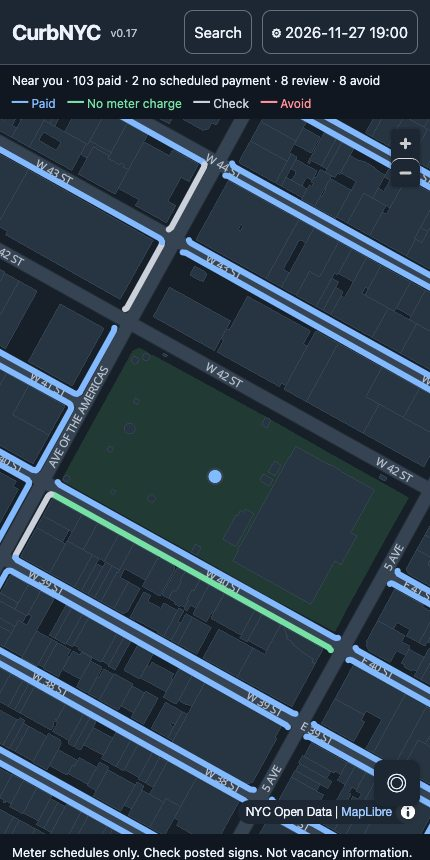
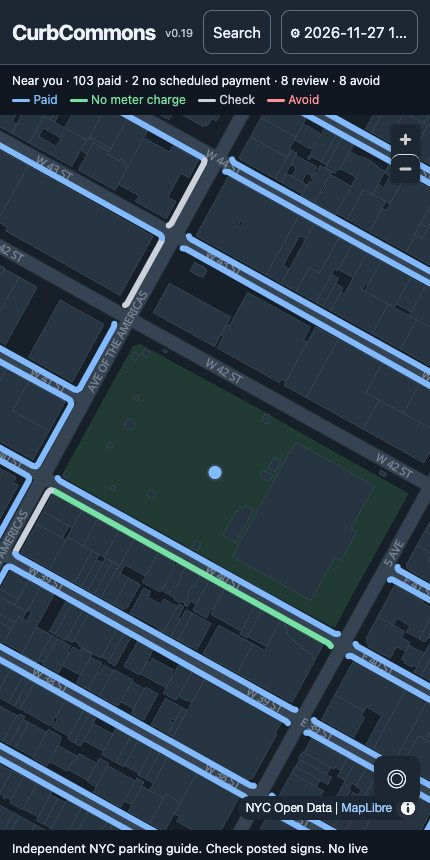
Use CurbCommons as the public app name

diff --git a/index.html b/index.html
@@ -1,7 +1,7 @@
 <!doctype html>
-<html lang="en"><head><meta charset="utf-8"><meta name="viewport" content="width=device-width,initial-scale=1"><meta name="theme-color" content="#142d3b"><link rel="manifest" href="manifest.json"><link rel="stylesheet" href="https://unpkg.com/maplibre-gl@4.7.1/dist/maplibre-gl.css"><title>CurbNYC — Meters</title>
+<html lang="en"><head><meta charset="utf-8"><meta name="viewport" content="width=device-width,initial-scale=1"><meta name="theme-color" content="#142d3b"><link rel="manifest" href="manifest.json"><link rel="stylesheet" href="https://unpkg.com/maplibre-gl@4.7.1/dist/maplibre-gl.css"><title>CurbCommons — Meters</title>
 <style>*{box-sizing:border-box}body{margin:0;font:15px system-ui;color:#142d3b;background:#f5f5f2}header{display:flex;align-items:center;gap:10px;padding:10px 12px;background:white;border-bottom:1px solid #ddd}header strong{font-size:21px;letter-spacing:-.5px}header small{font-size:11px;color:#75818a}button,select,input{font:inherit;border:1px solid #c4cbd0;padding:9px;border-radius:9px;background:#fff;color:inherit;cursor:pointer}header #search-toggle{margin-left:auto}header button{min-height:44px}header #settings{min-width:0;max-width:45vw;overflow:hidden;white-space:nowrap;text-overflow:ellipsis}#search-form label{margin:0 0 8px}#destination{width:100%;min-height:44px}#search-form>button{margin-top:8px;min-height:44px}#search-results{list-style:none;padding:0;margin:8px 0}#search-results button{text-align:left;width:100%;min-height:44px;margin-bottom:6px}section{padding:8px 12px}#map{height:calc(100dvh - 145px);min-height:300px;background:#eeeee8}#map-wrap{position:relative}.locate{position:absolute;z-index:2;right:10px;bottom:28px;border:0;box-shadow:0 1px 6px #0003;font-size:21px;width:46px;height:46px}#status{font-size:12px;margin:0 0 4px}#map-status{font-size:12px;color:#65717a}#results{padding:0 12px}article{padding:12px;margin:8px 0;background:white;border-radius:8px}p{white-space:pre-wrap;margin:6px 0;font-size:13px}a{color:#125d9b}.legend{display:flex;gap:12px;font-size:12px;flex-wrap:wrap}.legend b{font-size:16px}.maplibregl-popup-content{white-space:normal;font:14px system-ui;max-height:55vh;overflow:auto;padding:16px}.curb-state{font-size:16px;font-weight:700;margin:8px 0 4px}.price{font-weight:700;font-size:21px;margin:4px 0}.caveat{display:block;color:#65717a;margin-top:8px}details{margin-top:8px}summary{cursor:pointer;font-size:13px}dialog{border:0;border-radius:16px;max-width:min(92vw,420px);width:100%;padding:20px;color:#142d3b;box-shadow:0 10px 40px #0003}dialog::backdrop{background:#0005}dialog label{display:block;margin:14px 0}dialog input[type=datetime-local]{width:100%}dialog h2{margin:0 0 8px;font-size:20px}dialog .done{width:100%;background:#142d3b;color:white;margin-top:14px}.meter-schedule{border-top:1px solid #e0e4e6;padding-top:10px;margin-top:12px}.meter-schedule>summary{font-weight:600;color:#445660;line-height:1.5}.schedule-details{font-size:13px;line-height:1.45;padding:2px 0}.schedule-section{padding:10px 0;border-bottom:1px solid #e8ebed}.schedule-section:last-child{border-bottom:0;padding-bottom:2px}.schedule-label{display:block;font-size:12px;font-weight:700;color:#52636e;margin-bottom:4px}.schedule-section ul{padding-left:17px;margin:0}.schedule-section li{padding-left:1px;margin:4px 0;overflow-wrap:anywhere}.schedule-section li::marker{color:#81909a}.meter-schedule summary:focus-visible{outline:2px solid #2563eb;outline-offset:3px;border-radius:3px}</style><link rel="stylesheet" href="map-theme.css"></head>
-<body><header><strong>CurbNYC</strong><small>v0.18</small><button id="search-toggle" type="button">Search</button><button id="settings" aria-label="Parking settings">⚙ <span id="time-label">Now</span></button></header><section><p id="status" role="status">Finding your location and loading meters…</p><div class="legend"><span data-state="paid"><b class="legend-stroke" aria-hidden="true"></b> Paid</span><span data-state="inactive"><b class="legend-stroke" aria-hidden="true"></b> No meter charge</span><span data-state="unknown"><b class="legend-stroke" aria-hidden="true"></b> Check</span><span data-state="restricted"><b class="legend-stroke" aria-hidden="true"></b> Avoid</span></div></section><div id="map-wrap"><div id="map"></div><button class="locate" id="loc" aria-label="Center on my location" title="My location">◎</button></div><section><small>Meter schedules only. Check posted signs. Not vacancy information.</small><details id="nearby-panel"><summary>Data and nearby meters</summary><p id="map-status" role="status">Starting map…</p><p id="snapshot-status" role="status"></p><details><summary>Street cleaning and curb restrictions</summary><p id="asp-status"></p><p><a href="https://portal.311.nyc.gov/article/?kanumber=KA-01011" target="_blank" rel="noopener">NYC311 current street cleaning status</a> · <a href="https://www.nyc.gov/html/dot/html/motorist/alternate-side-parking.shtml" target="_blank" rel="noopener">NYC DOT holiday calendar</a></p><p>Check posted signs for street cleaning, bus stops and temporary restrictions. Check the curb for hydrants. <a href="https://www.nyc.gov/html/dot/html/motorist/weektraf.shtml" target="_blank" rel="noopener">NYC DOT traffic advisories</a></p></details><button id="retry">Reload data</button> <button id="bryant">Bryant Park</button> <a href="meters-baseline.html">Original meter map</a><div id="results"></div></details></section><dialog id="settings-panel"><h2>Parking settings</h2><button id="now">Use current time</button><label>Arrival (New York time)<input id="arrival" type="datetime-local"></label><label>Stay <select id="stay"><option value="0" selected>Just checking now</option><option value="0.5">30 min</option><option value="1">1 hour</option><option value="2">2 hours</option><option value="3">3 hours</option><option value="4">4 hours</option><option value="6">6 hours</option></select></label><label>Appearance <select id="theme"><option value="system">System</option><option value="light">Light</option><option value="dark">Dark</option></select></label><label><input id="line-patterns" type="checkbox"> Use line patterns for curb states</label><label>Search radius <select id="radius"><option>250</option><option selected>500</option><option>800</option><option>1200</option></select> m</label><label><input id="hide-restricted" type="checkbox" checked> Hide restricted curbs</label><small>Passenger vehicle. Major holiday meter payments are suspended; other restrictions may apply.</small><button id="done" class="done">Done</button></dialog><dialog id="search-panel" aria-labelledby="search-title">
+<body><header><strong>CurbCommons</strong><small>v0.19</small><button id="search-toggle" type="button">Search</button><button id="settings" aria-label="Parking settings">⚙ <span id="time-label">Now</span></button></header><section><p id="status" role="status">Finding your location and loading meters…</p><div class="legend"><span data-state="paid"><b class="legend-stroke" aria-hidden="true"></b> Paid</span><span data-state="inactive"><b class="legend-stroke" aria-hidden="true"></b> No meter charge</span><span data-state="unknown"><b class="legend-stroke" aria-hidden="true"></b> Check</span><span data-state="restricted"><b class="legend-stroke" aria-hidden="true"></b> Avoid</span></div></section><div id="map-wrap"><div id="map"></div><button class="locate" id="loc" aria-label="Center on my location" title="My location">◎</button></div><section><small>Independent NYC parking guide. Check posted signs. No live vacancy data.</small><details id="nearby-panel"><summary>Data and nearby meters</summary><p id="map-status" role="status">Starting map…</p><p id="snapshot-status" role="status"></p><details><summary>Street cleaning and curb restrictions</summary><p id="asp-status"></p><p><a href="https://portal.311.nyc.gov/article/?kanumber=KA-01011" target="_blank" rel="noopener">NYC311 current street cleaning status</a> · <a href="https://www.nyc.gov/html/dot/html/motorist/alternate-side-parking.shtml" target="_blank" rel="noopener">NYC DOT holiday calendar</a></p><p>Check posted signs for street cleaning, bus stops and temporary restrictions. Check the curb for hydrants. <a href="https://www.nyc.gov/html/dot/html/motorist/weektraf.shtml" target="_blank" rel="noopener">NYC DOT traffic advisories</a></p></details><button id="retry">Reload data</button> <button id="bryant">Bryant Park</button> <a href="meters-baseline.html">Original meter map</a><div id="results"></div></details></section><dialog id="settings-panel"><h2>Parking settings</h2><button id="now">Use current time</button><label>Arrival (New York time)<input id="arrival" type="datetime-local"></label><label>Stay <select id="stay"><option value="0" selected>Just checking now</option><option value="0.5">30 min</option><option value="1">1 hour</option><option value="2">2 hours</option><option value="3">3 hours</option><option value="4">4 hours</option><option value="6">6 hours</option></select></label><label>Appearance <select id="theme"><option value="system">System</option><option value="light">Light</option><option value="dark">Dark</option></select></label><label><input id="line-patterns" type="checkbox"> Use line patterns for curb states</label><label>Search radius <select id="radius"><option>250</option><option selected>500</option><option>800</option><option>1200</option></select> m</label><label><input id="hide-restricted" type="checkbox" checked> Hide restricted curbs</label><small>Passenger vehicle. Major holiday meter payments are suspended; other restrictions may apply.</small><button id="done" class="done">Done</button></dialog><dialog id="search-panel" aria-labelledby="search-title">
 <h2 id="search-title">Find a NYC address</h2>
 <form id="search-form">
 <label for="destination">Address or place</label>

diff --git a/pwa-manifest.test.js b/pwa-manifest.test.js
@@ -11,6 +11,11 @@ test('install manifest keeps the existing app identity under the GitHub Pages pa
  const expected='https://chrisgaun.github.io/curbnyc/';
  for(const key of ['id','start_url','scope'])assert.equal(new URL(manifest[key],deployed).href,expected,key);
  assert.equal(manifest.display,'standalone');
+ assert.equal(manifest.name,'CurbCommons');
+ assert.equal(manifest.short_name,'CurbCommons');
+ const html=readFileSync(new URL('./index.html',import.meta.url),'utf8');
+ assert.match(html,/<title>CurbCommons/);
+ assert.match(html,/<header><strong>CurbCommons<\/strong>/);
 });
 
 test('install icon files match their declared sizes and purposes',()=>{
@@ -46,7 +51,7 @@ test('service worker provides an offline screen only on app navigation without c
  for(const url of [appURL,appURL+'index.html?from=install']){
   const result=await eventFor(url);
   assert.equal(result.status,503);
-  assert.match(await result.text(),/CurbNYC is offline/);
+  assert.match(await result.text(),/CurbCommons is offline/);
   assert.equal(result.headers.get('Cache-Control'),'no-store');
  }
  assert.equal(eventFor(appURL+'data/meters.json','cors'),undefined);

diff --git a/sw.js b/sw.js
@@ -3,13 +3,13 @@ const offlinePage=`<!doctype html>
 <html lang="en">
 <meta charset="utf-8">
 <meta name="viewport" content="width=device-width,initial-scale=1">
-<title>CurbNYC is offline</title>
+<title>CurbCommons is offline</title>
 <style>
 body{max-width:30rem;margin:4rem auto;padding:0 1rem;font:1rem system-ui;color:#142d3b;background:#f4f6f7}
 button{min-height:44px;padding:.5rem 1rem;font:inherit;border-radius:8px;border:1px solid #142d3b;background:white;color:inherit}
 </style>
 <main>
-<h1>CurbNYC is offline</h1>
+<h1>CurbCommons is offline</h1>
 <p>Connect to the internet to load meter schedules. Check posted signs for parking rules.</p>
 <form method="get"><button>Try again</button></form>
 </main>

diff --git a/map-theme.css b/map-theme.css
@@ -84,3 +84,9 @@ a { color: var(--link); }
 [data-line-patterns="true"] .legend [data-state="restricted"] .legend-stroke {
   background: repeating-linear-gradient(to right,currentColor 0 5px,transparent 5px 7px,currentColor 7px 9px,transparent 9px 12px);
 }
+
+@media (max-width: 370px) {
+  header { gap: 6px; padding-inline: 8px; }
+  header strong { font-size: 17px; white-space: nowrap; }
+  header button { padding-inline: 7px; }
+}

diff --git a/docs/android-preflight.md b/docs/android-preflight.md
@@ -1,10 +1,12 @@
 # Android release preflight
 
-The browser install manifest retains the CurbNYC name and current GitHub Pages app identity. It includes 192 and 512 pixel PNGs plus a separate maskable 512 pixel PNG based on the existing icon. Localhost is suitable for browser preflight. A production Android build requires a verified HTTPS origin.
+The browser install manifest uses the CurbCommons display name and retains the current GitHub Pages install identity. It includes 192 and 512 pixel PNGs plus a separate maskable 512 pixel PNG based on the existing icon. Localhost is suitable for browser preflight. A production Android build requires a verified HTTPS origin.
+
+The GitHub repository still uses the `curbnyc` slug, and earlier releases used the CurbNYC display name. The existing PWA ID, scope, settings key, and icon assets carry forward. The separate Android package name and production host still require selection.
 
 ## Packaging
 
-1. Complete the CurbCommons name and distribution review under #7. Choose the stable Android application ID and production origin before generating a build. The browser manifest ID and Android application ID serve different purposes.
+1. CurbCommons is the selected display name. Complete distribution name clearance under #7. Choose the stable Android application ID and production origin before generating a build. The browser manifest ID and Android application ID serve different purposes.
 2. Use the existing web app in a Trusted Web Activity. Verify the Android association through `/.well-known/assetlinks.json` at the HTTPS origin root. The project path `/curbnyc/` on GitHub Pages does not itself give this repository control of the origin root. Match the Android application ID and Google Play App Signing certificate SHA-256. Do not commit signing secrets. [Chrome TWA quick start](https://developer.chrome.com/docs/android/trusted-web-activity/quick-start)
 3. Generate and test a signed AAB only after the owner selects the production ID and signing setup. As checked November 26, 2026, Google lists API level 36 for new phone apps and updates. Confirm the requirement for the intended submission date. [Google Play target API](https://developer.android.com/google/play/requirements/target-sdk)
 4. Use internal testing to check permission allowed and denied, recenter, slow network, install/update behavior, and performance on a real Android device. For applicable new personal accounts, Google documents a closed-test threshold of 12 opted-in testers for 14 continuous days before applying for production access. Confirm the selected account's requirements before scheduling the test. [Play Console testing requirements](https://support.google.com/googleplay/android-developer/answer/14151465)
@@ -13,7 +15,7 @@ The app needs a connection to load map and meter data. After the service worker 
 
 ## Privacy and store disclosures for owner review
 
-The app is independent of New York City, the NYC Department of Transportation, and Google. Attribute official data separately from CurbNYC's own guidance. The map covers meter schedules and points to official sources. It does not grant parking permission or show live vacancies.
+The app is independent of New York City, the NYC Department of Transportation, and Google. Attribute official data separately from CurbCommons guidance. The map covers meter schedules and points to official sources. It does not grant parking permission or show live vacancies.
 
 Audit the actual signed build before completing the privacy policy and Play Data Safety form. In the current web app, the browser may request foreground geolocation at startup or upon recentering. Map viewport queries go to NYC Open Data and can indirectly reveal the viewed location. The app also requests dependencies and data from GitHub, unpkg, and MapLibre's glyph host. If the address search draft ships, only explicitly submitted address text and a result cap go to NYC Planning GeoSearch, and the app will retain map display preferences locally. Check whether any distribution wrapper or hosting change adds data recipients. Do not promise that external providers discard requests.
 

diff --git a/README.md b/README.md
@@ -1,10 +1,18 @@
-# CurbNYC
+# CurbCommons
 
-CurbNYC is a free, open-source NYC parking map. It shows official NYC meter blockfaces near the center of the map, with passenger-meter hours, published rates, and commercial restrictions when the meter schedule supports them.
+CurbCommons is a free, open-source NYC parking map. It shows official NYC meter blockfaces near the center of the map, with passenger-meter hours, published rates, and commercial restrictions when the meter schedule supports them.
 
 [Open the map](https://chrisgaun.github.io/curbnyc/)
 
-<img src="docs/images/curbnyc-dark.jpg" alt="CurbNYC in dark mode on a phone-width screen, showing colored meter blockfaces around Bryant Park" width="350">
+<img src="docs/images/curbnyc-dark.jpg" alt="CurbCommons in dark mode on a phone-width screen, showing colored meter blockfaces around Bryant Park" width="350">
+
+## Try it on a phone
+
+Open [the map](https://chrisgaun.github.io/curbnyc/) in your phone's browser. On Android, Chrome's menu offers **Install and create shortcut** or **Add to home screen**. Choose **Install** when offered. [Chrome web app installation help](https://support.google.com/chrome/answer/9658361?co=GENIE.Platform%3DAndroid)
+
+On iPhone, open the map in Safari, then use **Share** and **Add to Home Screen**. [Safari web app installation help](https://support.apple.com/guide/iphone/iphea86e5236/ios)
+
+Try location permission allowed and denied, search for a public NYC destination, and pan across a few blocks. Tap a curb and compare its schedule with the posted sign. For a performance report, include the app version, phone model, Android version, and whether you were on Wi-Fi or cellular. Leave private addresses out of public reports.
 
 ## Use the map
 
@@ -30,7 +38,7 @@ The calculator supports the weekly schedules, split windows, overnight intervals
 
 The regression fixtures preserve five NYC Open Data records, including West 41 Street (104933), Bedford Avenue in Williamsburg (301265), and a 30-minute Jackson Heights meter (466707). These records were compared with the live data API. The published DOT rates provide zone-level corroboration. Field signs can differ and were not independently checked.
 
-The monthly Actions refresh keeps the previous published snapshot if the response is incomplete or validation fails. **Data and nearby meters** shows the source, fetch date, and abbreviated content digest. A fetch date records when CurbNYC retrieved the data. Snapshots older than 45 days show an age warning. A failed refresh of an open map keeps its previous lines visible. The deployed app reads the snapshot directly from GitHub main so a data update can be picked up without a Pages build.
+The monthly Actions refresh keeps the previous published snapshot if the response is incomplete or validation fails. **Data and nearby meters** shows the source, fetch date, and abbreviated content digest. A fetch date records when CurbCommons retrieved the data. Snapshots older than 45 days show an age warning. A failed refresh of an open map keeps its previous lines visible. The deployed app reads the snapshot directly from GitHub main so a data update can be picked up without a Pages build.
 
 On browsers with gzip streaming support, the active map first tries the lossless compact snapshot generated alongside the canonical JSON. The compact format preserves double-precision line coordinates, feature order, and meter schedule strings. If it is unavailable or invalid, the app uses the canonical JSON and then paginated NYC Open Data. The first successful refresh after rollout publishes the compact file. For a local preview, run `python3 scripts/pack_meters.py data/meters.json` before starting the server. The generated file is managed by the refresh workflow; keep the canonical JSON in place for older browsers and the existing meter views.
 

diff --git a/AGENTS.md b/AGENTS.md
@@ -1,4 +1,4 @@
-# CurbNYC development
+# CurbCommons development
 
 - Run `npm test` and serve the repository root with `python3 -m http.server 8000`.
 - Trace the active entry point from `index.html`. Older meter scripts and `meters-baseline.html` are regression references.
